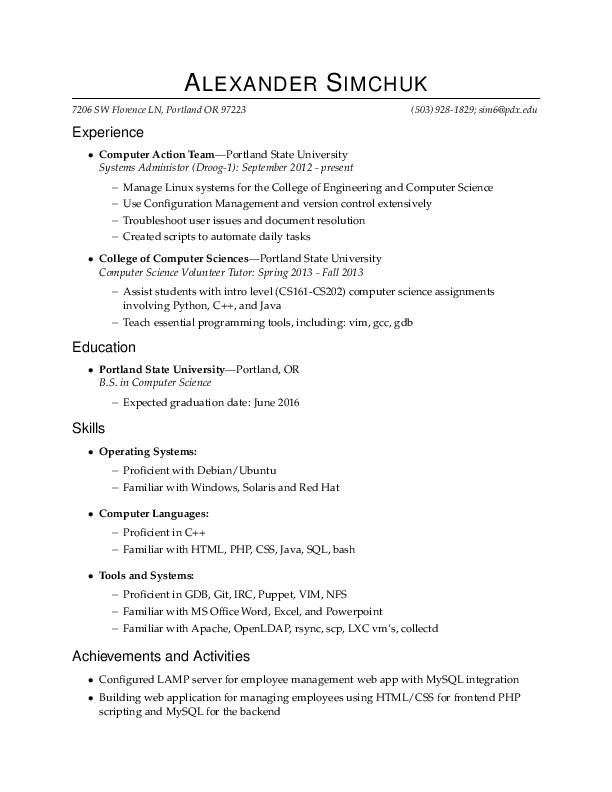
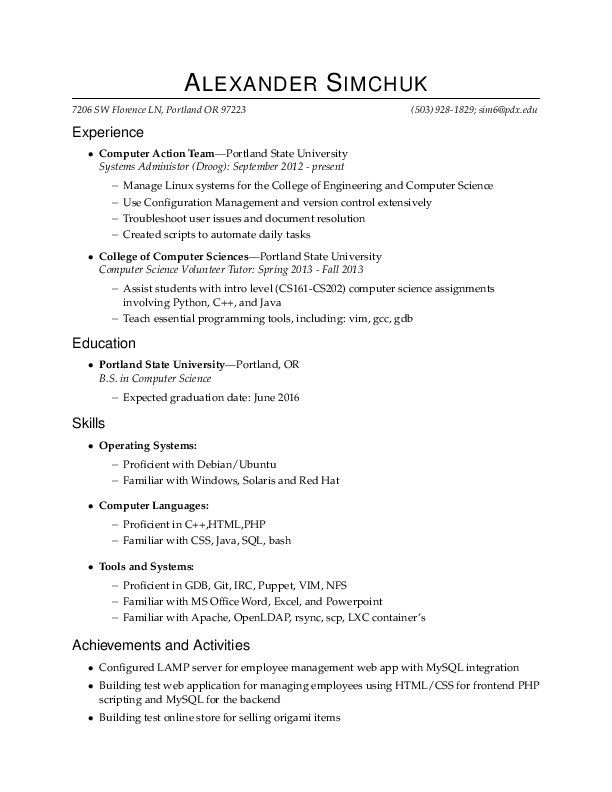
resume updated 6.6.14

Changed region(s): [[0.1242, 0.5152, 0.8693, 0.9091], [0.1242, 0.1818, 0.8072, 0.5152]]

diff --git a/resume.tex b/resume.tex
@@ -94,7 +94,7 @@
 
 %%%%%%%%%%%%%%%%%%%%%%%%
 \begin{ressection}{Experience}
-    \begin{ressubsec}{Computer Action Team}{Portland State University}{Systems Administor (Droog-1): September 2012 - present}
+    \begin{ressubsec}{Computer Action Team}{Portland State University}{Systems Administor (Droog): September 2012 - present}
 		\ressubitem{Manage Linux systems for the College of Engineering and Computer Science}
 		\ressubitem{Use Configuration Management and version control extensively}
 		\ressubitem{Troubleshoot user issues and document resolution}
@@ -122,13 +122,13 @@
         \ressubitem{Familiar with Windows, Solaris and Red Hat}
 	\end{reslist}
 	\begin{reslist}{Computer Languages:}
-        \ressubitem{Proficient in C++}
-        \ressubitem{Familiar with HTML, PHP, CSS, Java, SQL, bash}
+        \ressubitem{Proficient in C++,HTML,PHP}
+        \ressubitem{Familiar with CSS, Java, SQL, bash}
 	\end{reslist}
 	\begin{reslist}{Tools and Systems:}
         \ressubitem{Proficient in GDB, Git, IRC, Puppet, VIM, NFS}
 	\ressubitem{Familiar with MS Office Word, Excel, and Powerpoint}
-        \ressubitem{Familiar with Apache, OpenLDAP, rsync, scp, LXC vm's, collectd}
+        \ressubitem{Familiar with Apache, OpenLDAP, rsync, scp, LXC container's}
 	\end{reslist}
 \end{ressection}
 
@@ -136,7 +136,8 @@
 %%%%%%%%%%%%%%%%%%%%%%%%
 \begin{ressection}{Achievements and Activities}
     \resitem{Configured LAMP server for employee management web app with MySQL integration}
-    \resitem{Building web application for managing employees using HTML/CSS for frontend PHP scripting and MySQL for the backend}
+    \resitem{Building test web application for managing employees using HTML/CSS for frontend PHP scripting and MySQL for the backend}
+    \resitem{Building test online store for selling origami items}
     \resitem{Configured OpenLDAP server with backend and frontend data replicated from existing infrastructure for a test web application interface}
     \resitem{Updated documantation for setting up an OpenLDAP server in the College of Engeneering and Computer Science environment}
     \resitem{Wrote and ran a lab for setting up a basic NFS infrastructure on several VM's}
